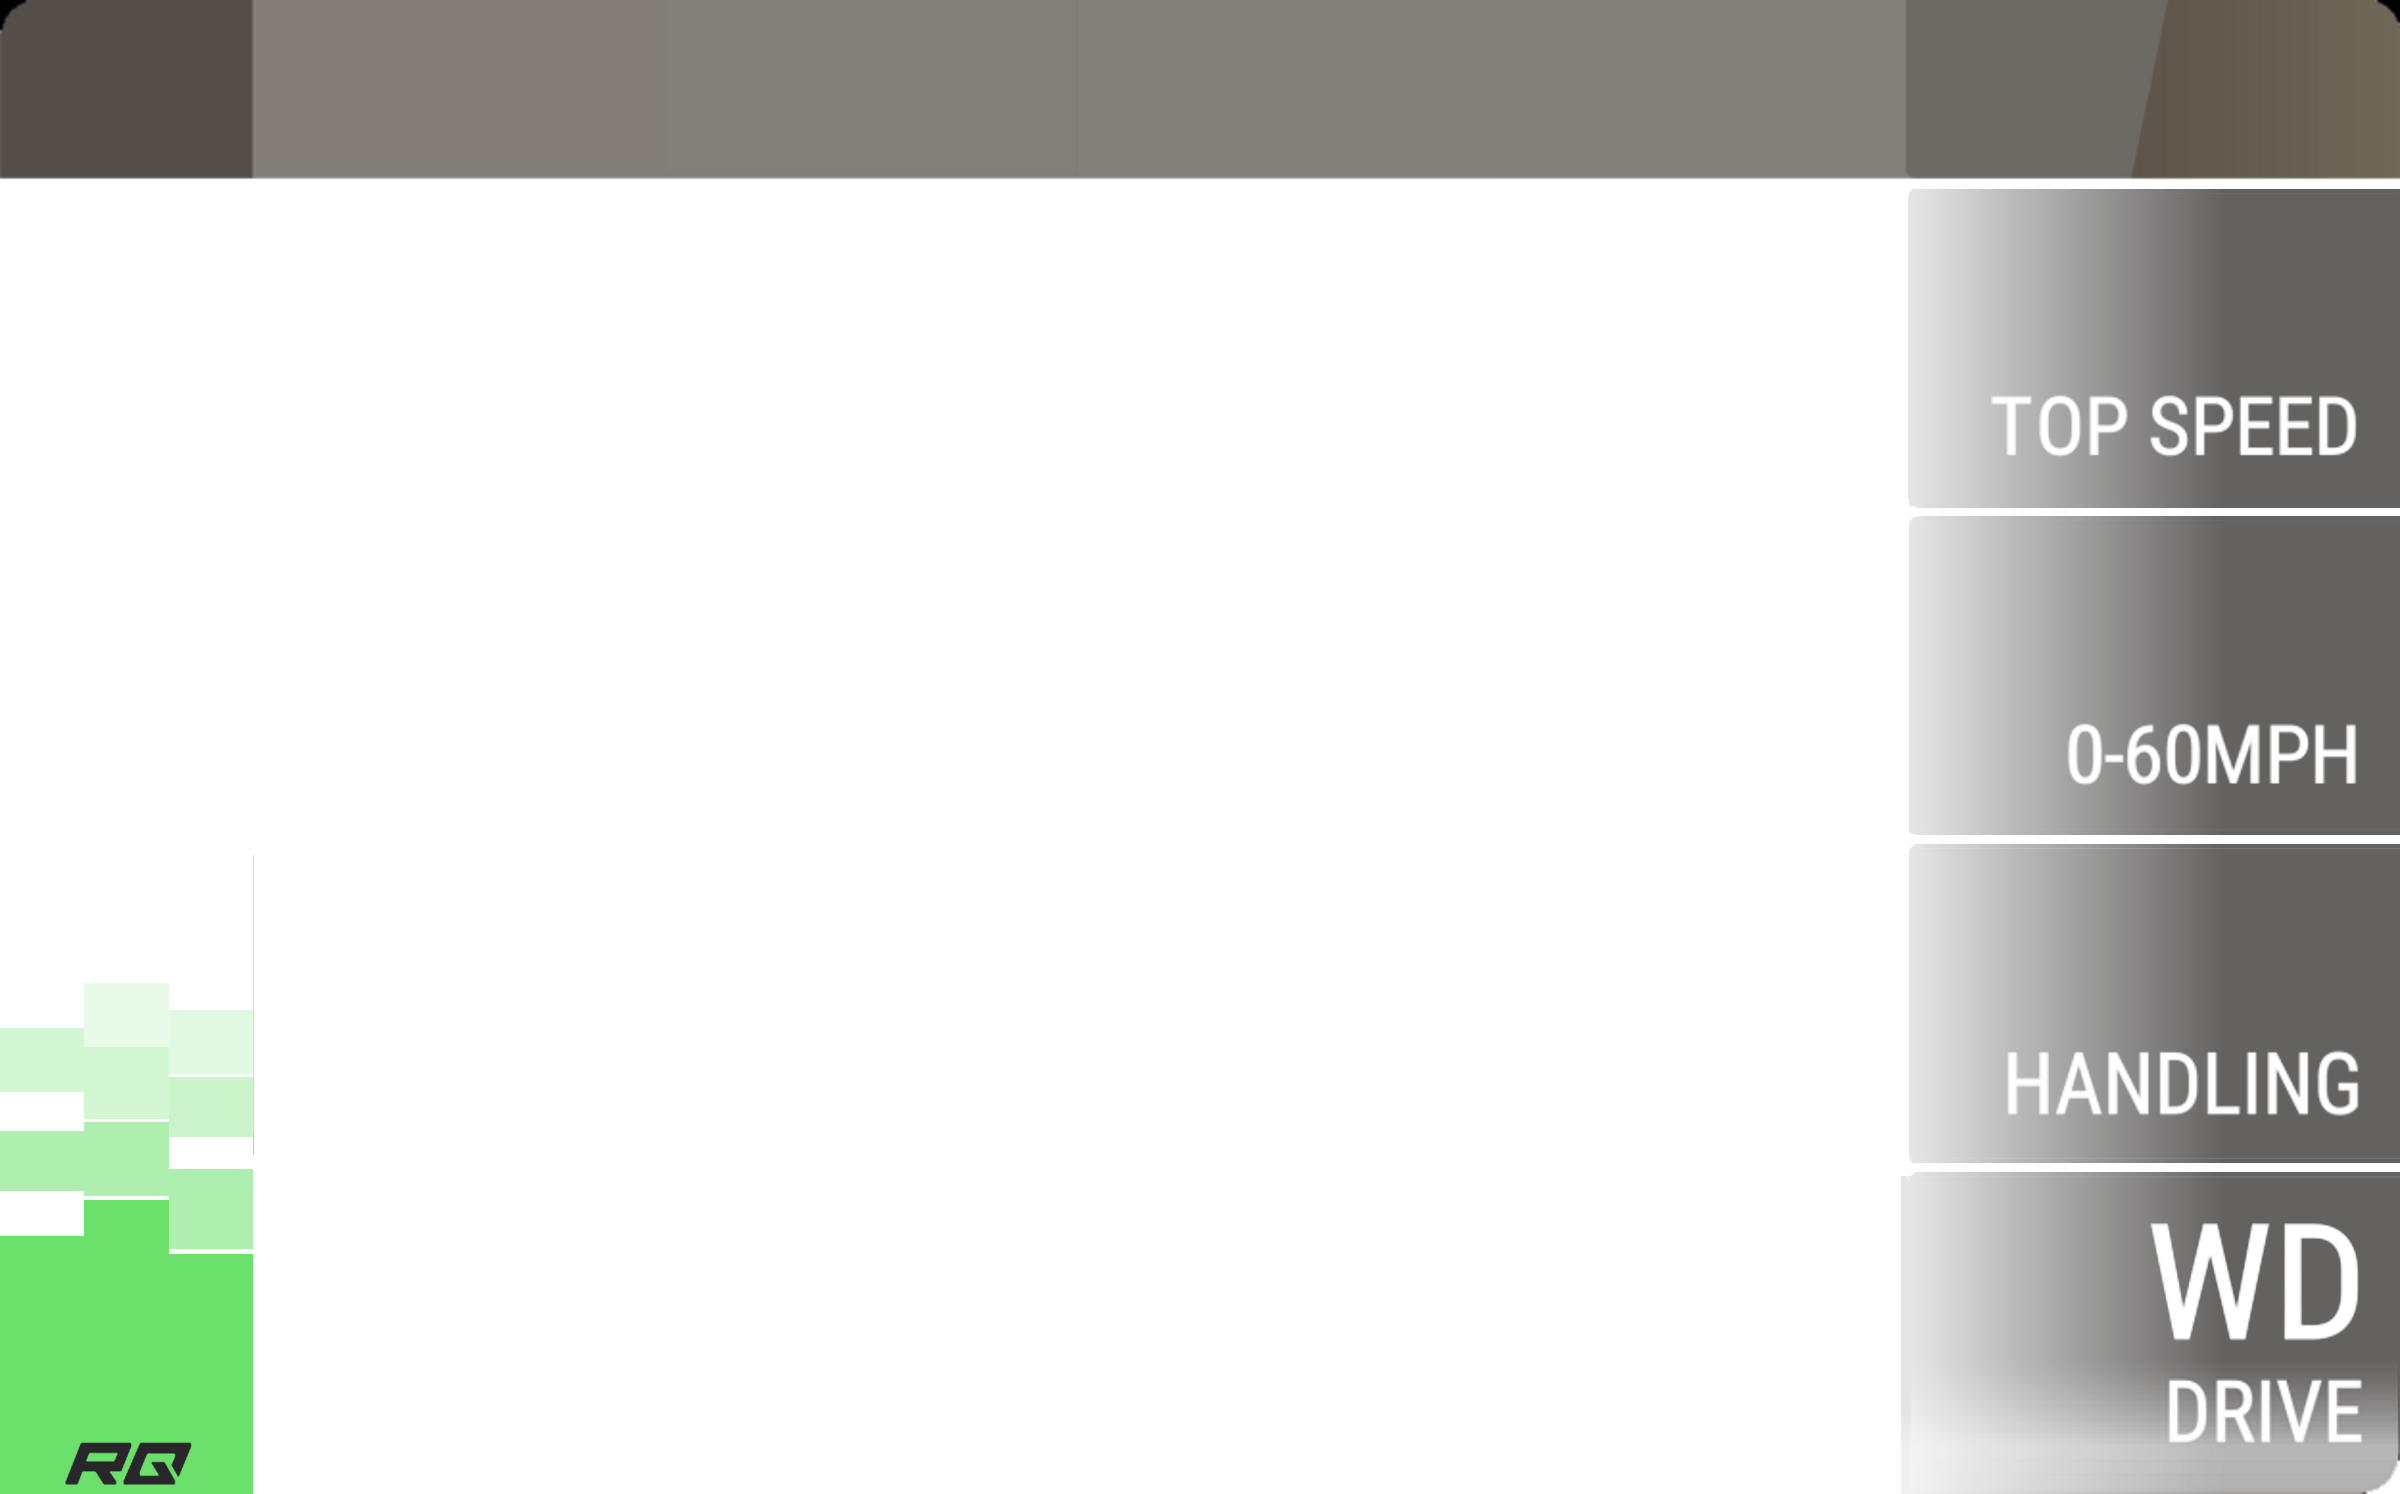
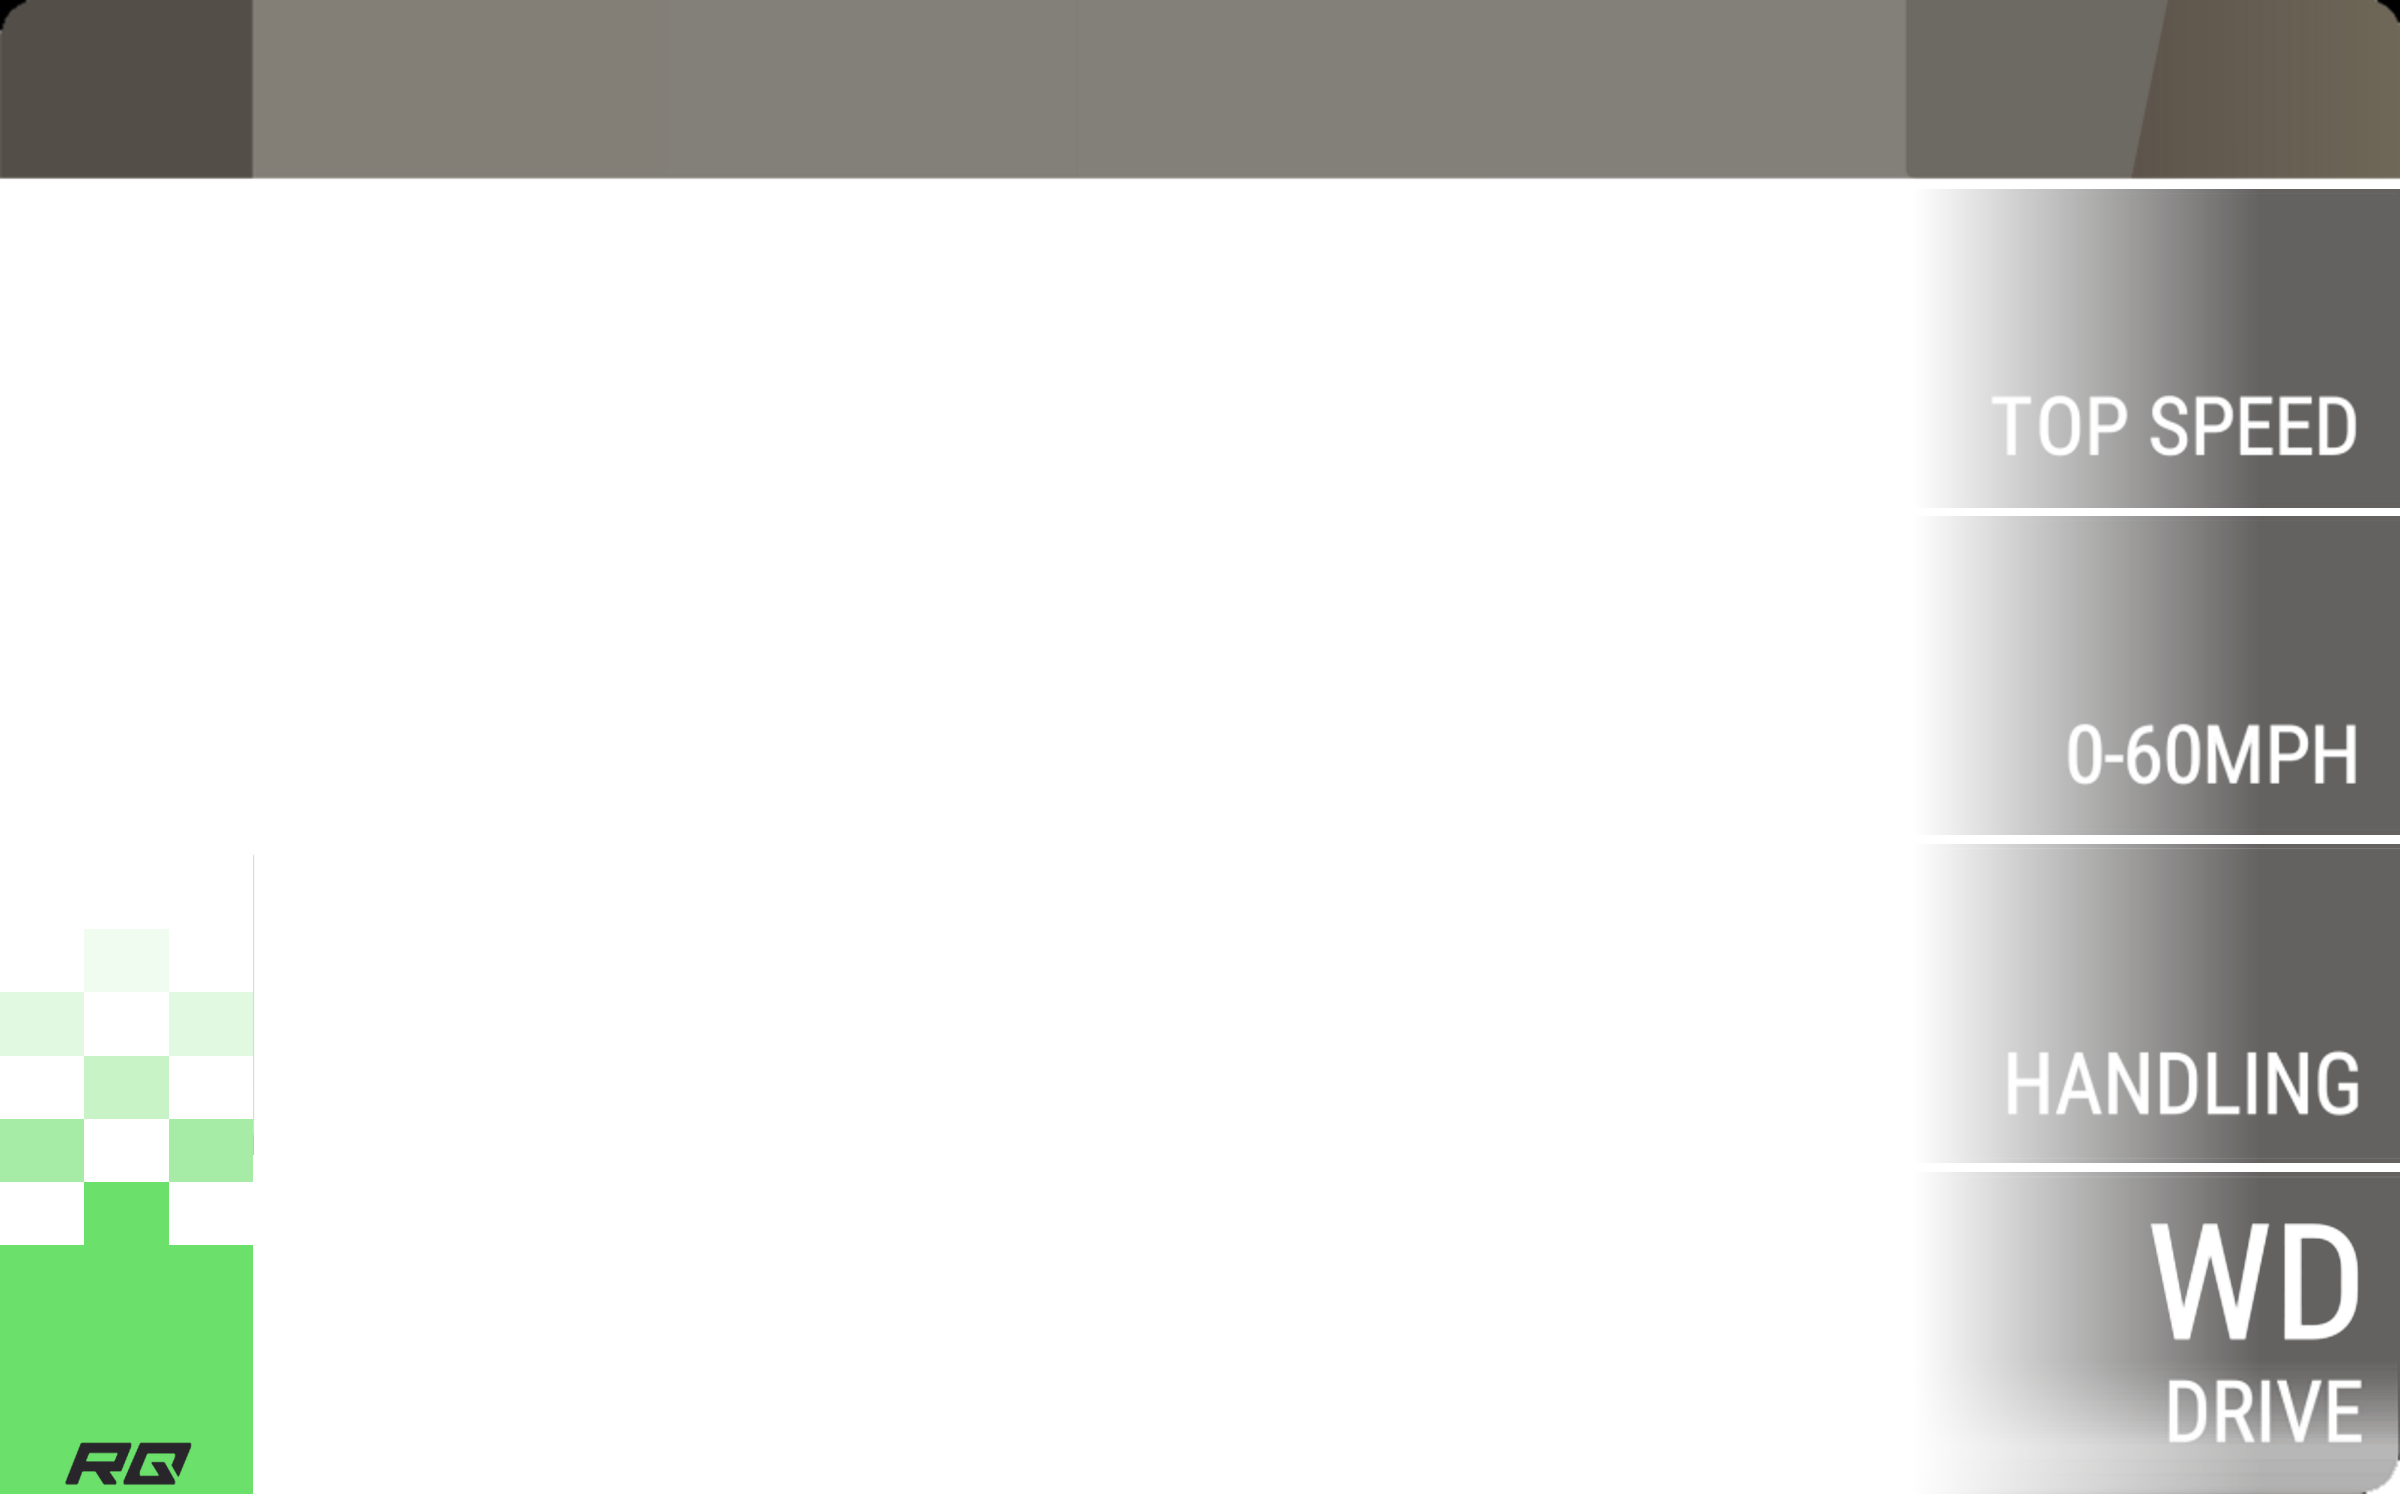
fix

Changed region(s): [[0.7812, 0.1232, 0.8438, 0.9545], [0.0, 0.6466, 0.125, 0.8621], [0.0625, 0.6466, 0.125, 0.6774]]

diff --git a/lib/templates/template_spec.dart b/lib/templates/template_spec.dart
@@ -1,6 +1,6 @@
 import 'package:flutter/painting.dart';
 
-import '../../assets/data/models/card_style.dart';
+import '../data/models/card_style.dart';
 
 Color _hexColor(String hex) =>
     Color(int.parse(hex.replaceFirst('#', ''), radix: 16) | 0xFF000000);
@@ -259,12 +259,43 @@ class PrizeStyleSpec {
 
 /// A rectangle in card units.
 class RegionRect {
-  const RegionRect({required this.x, required this.y, required this.w, required this.h});
+  const RegionRect({
+    required this.x,
+    required this.y,
+    required this.w,
+    required this.h,
+    this.fadeLeft = 0,
+  });
 
   final double x, y, w, h;
 
-  factory RegionRect.fromJson(Map<String, dynamic> j) =>
-      RegionRect(x: _d(j['x']), y: _d(j['y']), w: _d(j['w']), h: _d(j['h']));
+  /// For a blurred region: the blur grows from nothing to full strength over
+  /// this width at the left edge, like the panels that fade in from clear glass.
+  final double fadeLeft;
+
+  factory RegionRect.fromJson(Map<String, dynamic> j) => RegionRect(
+        x: _d(j['x']),
+        y: _d(j['y']),
+        w: _d(j['w']),
+        h: _d(j['h']),
+        fadeLeft: _d(j['fadeLeft'] ?? 0),
+      );
+
+  /// The region as strips with their blur strength: one piece without a fade,
+  /// otherwise narrow strips that blur a little more each, then the full part.
+  List<({Rect rect, double sigma})> blurPieces(double sigma, {int steps = 12}) {
+    final fade = fadeLeft.clamp(0.0, w).toDouble();
+    if (fade <= 0) return [(rect: Rect.fromLTWH(x, y, w, h), sigma: sigma)];
+    final strip = fade / steps;
+    return [
+      for (var i = 0; i < steps; i++)
+        (
+          rect: Rect.fromLTWH(x + strip * i, y, strip + 0.5, h),
+          sigma: sigma * (i + 1) / (steps + 1),
+        ),
+      if (w > fade) (rect: Rect.fromLTWH(x + fade, y, w - fade, h), sigma: sigma),
+    ];
+  }
 }
 
 /// The logo slot of the frame (the dark tile in the top-left corner).

diff --git a/lib/editor/canvas/card_view.dart b/lib/editor/canvas/card_view.dart
@@ -78,22 +78,23 @@ class CardView extends StatelessWidget {
             // Frosted glass: blur the photo behind the semi-transparent parts of the frame.
             if (photoFile != null && t.blurSigma > 0)
               for (final r in t.blurRegions)
-                Positioned(
-                  left: r.x,
-                  top: r.y,
-                  width: r.w,
-                  height: r.h,
-                  child: ClipRect(
-                    child: BackdropFilter(
-                      filter: ui.ImageFilter.blur(
-                        sigmaX: t.blurSigma,
-                        sigmaY: t.blurSigma,
-                        tileMode: TileMode.clamp,
+                for (final piece in r.blurPieces(t.blurSigma))
+                  Positioned(
+                    left: piece.rect.left,
+                    top: piece.rect.top,
+                    width: piece.rect.width,
+                    height: piece.rect.height,
+                    child: ClipRect(
+                      child: BackdropFilter(
+                        filter: ui.ImageFilter.blur(
+                          sigmaX: piece.sigma,
+                          sigmaY: piece.sigma,
+                          tileMode: TileMode.clamp,
+                        ),
+                        child: const SizedBox.expand(),
                       ),
-                      child: const SizedBox.expand(),
                     ),
                   ),
-                ),
             Positioned.fill(
               child: Image.asset(
                 frame,

diff --git a/lib/data/models/card_project.dart b/lib/data/models/card_project.dart
@@ -104,12 +104,9 @@ class CardProject {
 
   /// Fan-made or official (game) look of the title.
   CardStyle cardStyle;
-<<<<<<< HEAD
 
   /// The flag of [country] behind the country code (if the code has a flag).
   bool showFlag;
-=======
->>>>>>> bde53f785ffd4ae968faf6bb21b3de14bd0a3799
   String brand;
   String model;
   String year;
@@ -165,10 +162,7 @@ class CardProject {
         'brandScale': brandScale,
         'modelScale': modelScale,
         'cardStyle': cardStyle.name,
-<<<<<<< HEAD
         'showFlag': showFlag,
-=======
->>>>>>> bde53f785ffd4ae968faf6bb21b3de14bd0a3799
         'yearScale': yearScale,
         'tagScale': tagScale,
         'brand': brand,
@@ -225,10 +219,7 @@ class CardProject {
       brandScale: (j['brandScale'] as num?)?.toDouble() ?? legacyTitleScale,
       modelScale: (j['modelScale'] as num?)?.toDouble() ?? legacyTitleScale,
       cardStyle: parseCardStyle(j['cardStyle'] as String?),
-<<<<<<< HEAD
       showFlag: j['showFlag'] as bool? ?? false,
-=======
->>>>>>> bde53f785ffd4ae968faf6bb21b3de14bd0a3799
       yearScale: (j['yearScale'] as num?)?.toDouble() ?? 1.0,
       tagScale: (j['tagScale'] as num?)?.toDouble() ?? 1.0,
       brand: s('brand', ''),

diff --git a/tool/make_modern_frames.py b/tool/make_modern_frames.py
@@ -4,8 +4,9 @@ Run from the project root:  python3 tool/make_modern_frames.py
 
 The modern look (seen on newer cards of the game): no stars, the tuning wrench
 sits lower and is bigger, the bottom shading strip is gone (more room for the
-photo), the stat panels fade in from the left, and the class block is a plain
-colour block with a pixelated fade above it and no class letter.
+photo), the stat panels fade in from fully transparent on the left, and the
+class block is a plain colour block with a see-through chequered flag above it
+(squares in the class colour, fading upwards) and no class letter.
 Everything that is not listed here (title bar, logo block, country block, the
 words under the numbers) is taken from the standard frame unchanged.
 """
@@ -19,6 +20,11 @@ SRC = {'S': 'legendary', 'A': 'epic', 'B': 'ultra_rare', 'C': 'super_rare',
        'D': 'rare', 'E': 'uncommon', 'F': 'common'}
 OUT = 'assets/frames/modern'
 PANEL_RGB = np.array([38.0, 36.0, 35.0])
+PANEL_MAX = 0.72      # how dark the stat panels get on the right
+RAMP_END = 1260       # x (card units) where they are darkest; the template's blur fades over the same width
+CHECK_TOP = 690       # the solid colour block starts here, the chequered flag sits above it
+CHECK_CELL = 35       # size of a square of the chequered flag
+CHECK_ALPHA = [1.0, 0.60, 0.38, 0.20, 0.10]   # row by row, upwards
 
 
 def px(x, y):
@@ -93,8 +99,8 @@ def build(letter, name):
     spans.append((start, prev + 1))
     x0p, x1p = px(1060, 0)[0], px(1338, 0)[0]
     xs = np.arange(x0p, x1p)
-    t = np.clip((xs - px(1066, 0)[0]) / (px(1240, 0)[0] - px(1066, 0)[0]), 0, 1)
-    panel_alpha = 0.12 + 0.60 * t                      # 12% at the left edge, 72% from x=1240
+    t = np.clip((xs - px(1066, 0)[0]) / (px(RAMP_END, 0)[0] - px(1066, 0)[0]), 0, 1)
+    panel_alpha = PANEL_MAX * t                        # fully clear at the left edge, PANEL_MAX from RAMP_END on
     for ya, yb in spans:
         block = a[ya:yb, x0p:x1p]
         inside = block[..., 3] > 0
@@ -106,7 +112,7 @@ def build(letter, name):
         out[ya:yb, x0p:x1p, :3] = np.where(inside[..., None], rgb, 0)
         out[ya:yb, x0p:x1p, 3] = oa * 255
 
-    # --- new class block: solid colour with a pixelated fade above it ---
+    # --- new class block: solid colour, and above it a see-through chequered flag ---
     def rect(x0, y0, x1, y1, alpha):
         ys, xs_ = region(x0, y0, x1, y1)
         blk = out[ys, xs_]
@@ -114,13 +120,13 @@ def build(letter, name):
         oa = alpha + da * (1 - alpha)
         blk[..., :3] = (cls * alpha + blk[..., :3] * da * (1 - alpha)) / np.maximum(oa, 1e-6)
         blk[..., 3:4] = oa * 255
-    cols = [(0, 47, 685, [(570, 605, .30), (627, 660, .55)]),
-            (47, 94, 665, [(545, 580, .15), (580, 620, .30), (622, 663, .55)]),
-            (94, 141, 695, [(560, 595, .20), (597, 630, .35), (648, 692, .55)])]
-    for x0, x1, solid_top, tiles in cols:
-        for ty0, ty1, al in tiles:
-            rect(x0, ty0, x1, ty1, al)
-        rect(x0, solid_top, x1, 828, 1.0)
+    width = 141 / 3                                   # three columns of squares
+    for row, alpha in enumerate(CHECK_ALPHA, start=1):
+        top = CHECK_TOP - CHECK_CELL * row
+        for col in range(3):
+            if (col + row) % 2 == 0:                  # every other square, like a chequered flag
+                rect(col * width, top, (col + 1) * width, top + CHECK_CELL, alpha)
+    rect(0, CHECK_TOP, 141, 828, 1.0)
 
     # --- sprites back: dark RQ logo on the block, words under the photo, wrench ---
     put(out, logo_cov_arr, logo_pos, (40, 38, 42), scale=0.78, anchor=px(36, 799))

diff --git a/README.md b/README.md
@@ -165,8 +165,10 @@ assets/
   PNG-рамок по классам. Список лежит в `TemplateRegistry`. Сейчас два: **Standard** и **Modern**.
   Переключатель шаблона находится в разделе **Style**, шаблон хранится в карточке (`templateId`).
 - **Modern** это вид новых карточек игры: нет звёздочек, ключ тюнинга ниже и крупнее, нет тёмной полосы
-  внизу (больше места для фото), панели характеристик с градиентом (слева почти прозрачные), блок RQ без
-  буквы класса: плоский цвет класса с пиксельным затуханием сверху, число RQ тёмное.
+  внизу (больше места для фото), панели характеристик, которые нарастают от полностью прозрачных слева до тёмных справа
+  (размытие фона под ними тоже нарастает плавно: ключ `fadeLeft` у областей `blurRegions`), блок RQ без
+  буквы класса: плоский цвет класса, над ним прозрачный «клетчатый флаг» из квадратов цвета класса,
+  затухающий вверх, число RQ тёмное.
   Рамки собираются из стандартных скриптом `python3 tool/make_modern_frames.py` (название, блок логотипа,
   блок страны и подписи под цифрами берутся из стандартной рамки без изменений). Числа (положение плиток,
   градиент, положение ключа и логотипа RQ) измерены по скриншоту карточки Porsche 911 GT2 и лежат в

diff --git a/claude/claude.md b/claude/claude.md
@@ -136,7 +136,10 @@ claude/claude.md                 this file
 - Templates: `assets/templates/<id>.json` + frames; list in `TemplateRegistry._ids`; `EditorController.template` is a getter
   (follows `project.templateId`). New frame folders must be declared in pubspec (assets are not recursive).
 - `modern` frames are generated: `python3 tool/make_modern_frames.py` (from the standard frames, in 2400x1494 pixels).
-  Measured from a Porsche 911 GT2 card: no stars/bottom strip, wrench 1.5x at (185,750), gradient stat panels,
-  pixel-fade colour block (no class letter), dark RQ number (`fields.rq.color`, y 699). Only class A was seen.
+  Measured from a Porsche 911 GT2 card: no stars/bottom strip, wrench 1.5x at (185,750), stat panels fading in from fully clear
+  (alpha 0 -> 0.72 over x 1066..1260; the template's blur fades over the same width via `blurRegions[].fadeLeft`),
+  colour block topped by a see-through chequered flag (35-unit squares, 3 columns, alpha fading upwards; class colour),
+  dark RQ number (`fields.rq.color`, y 699). Only class A was seen. `drivePrefix` has an explicit baseline (742) so the
+  F/R/4 stands on the baseline of the baked "WD".
 - Flag: `CardProject.showFlag`, `CountryFlags` (painted, simplified), `FlagBadge` between frame and texts, polygon and
   opacity in template `flag`. Works in every template.
